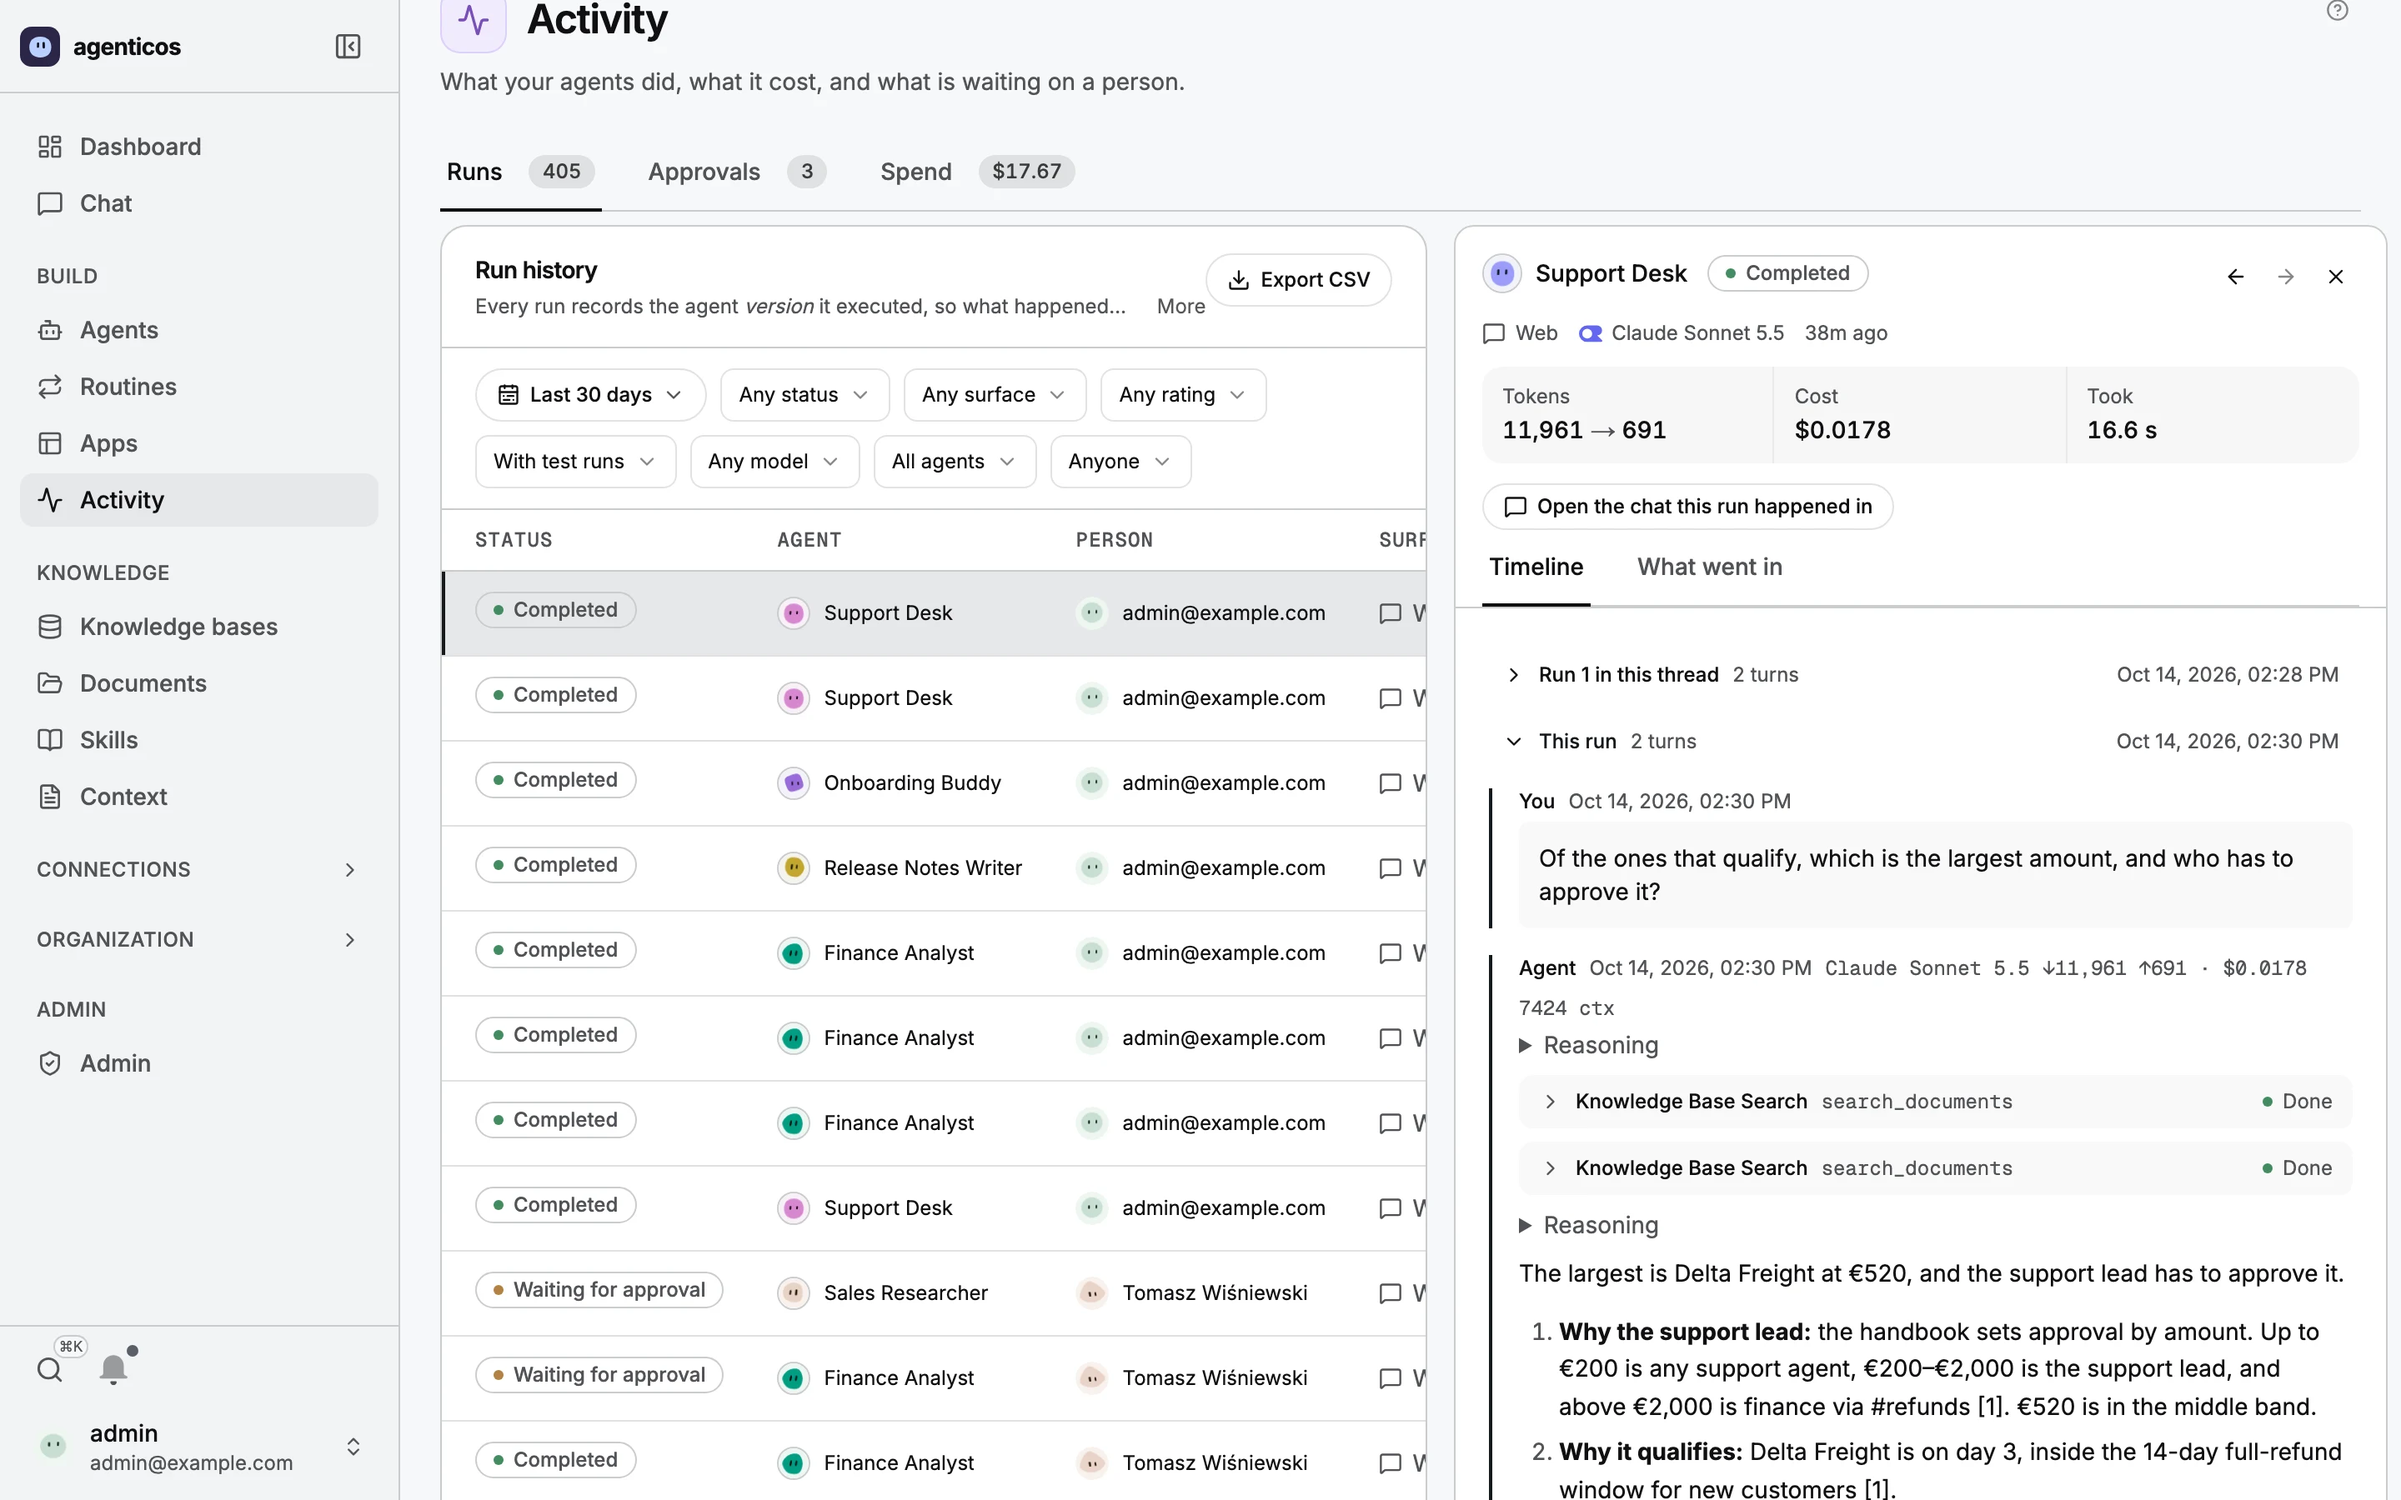
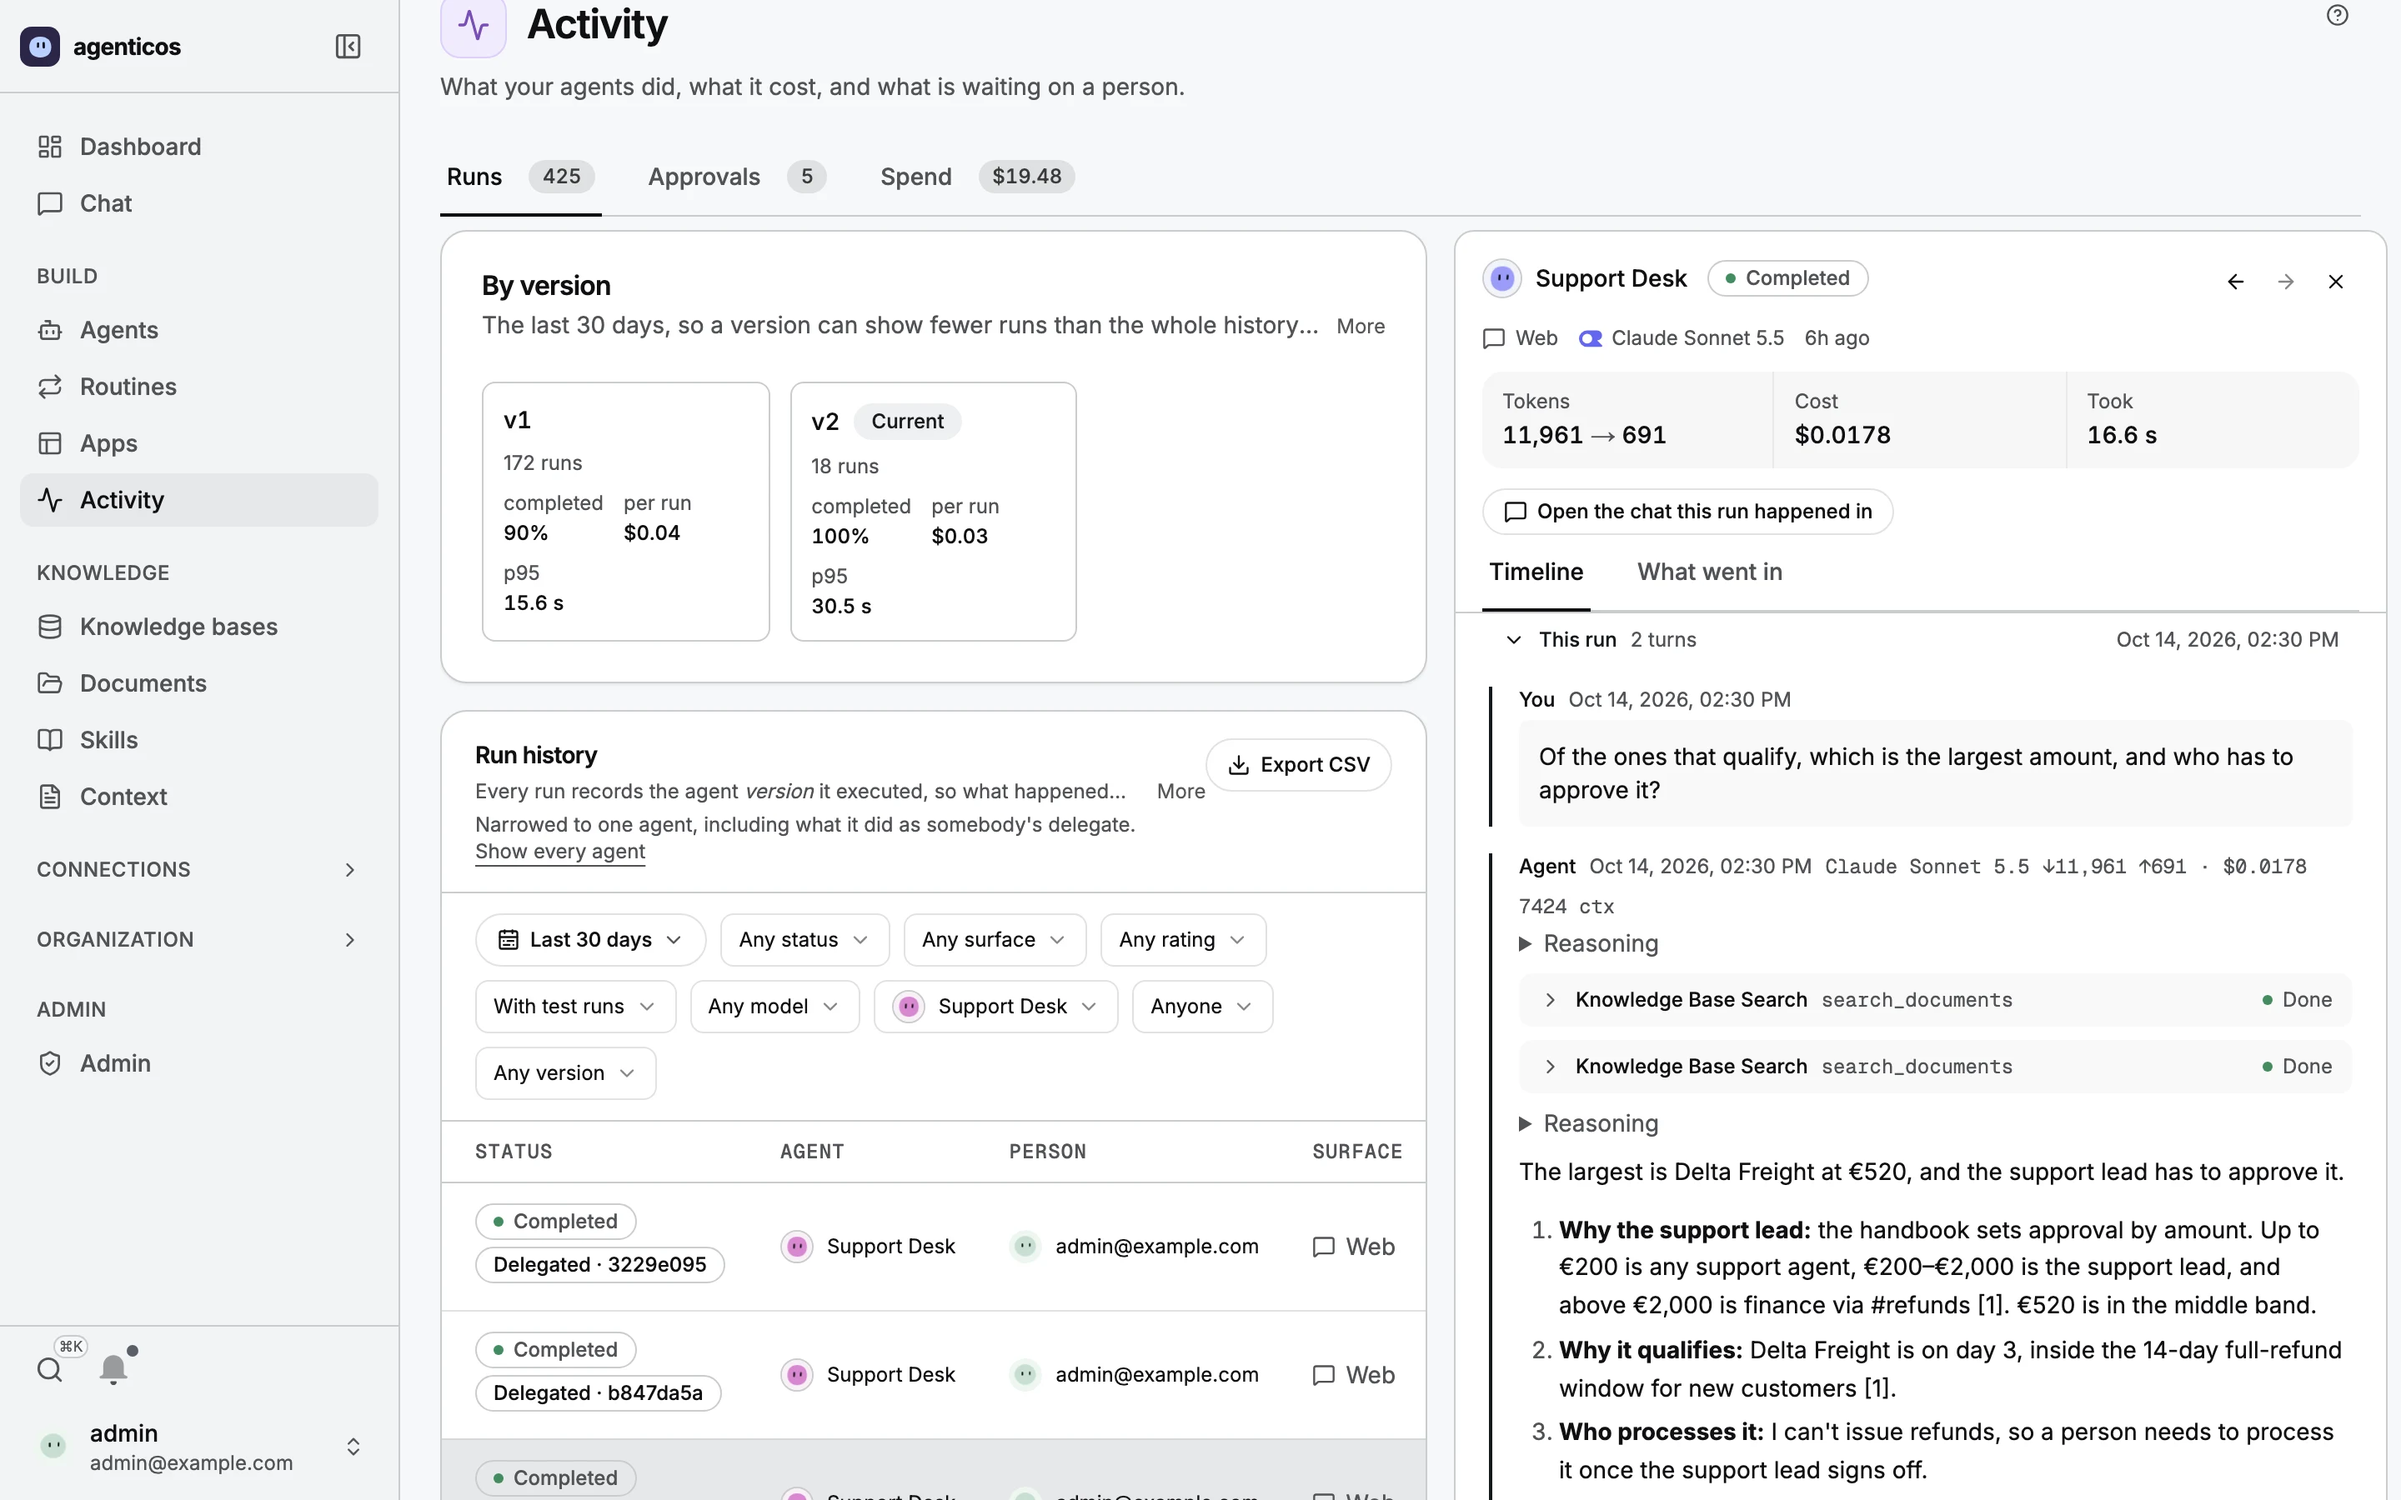
docs(presentation): recapture the deck after the console changes
The chat slide now starts at the folded work above the answer, and the
run slide narrows to Support Desk so its opened run stays in view.
That capture also showed a version tile's figures overlapping on the
Runs page, fixed here.

diff --git a/docs/presentation/media/areas.js b/docs/presentation/media/areas.js
@@ -41,29 +41,29 @@ window.AREAS = {
   ],
   "card": [
    0.458,
-   0.259,
+   0.813,
    0.251,
-   0.263
+   0.187
   ]
  },
  "chat": {
   "steps": [
    0.356,
-   0,
+   0.103,
    0.633,
-   0.347
+   0.031
   ],
   "app": [
-   0.366,
-   0.062,
-   0.623,
+   0.356,
+   0.535,
+   0.4,
    0.144
   ],
   "answer": [
    0.356,
-   0.36,
+   0.143,
    0.633,
-   0.442
+   0.573
   ],
   "composer": [
    0.356,
@@ -284,7 +284,7 @@ window.AREAS = {
    0.183,
    0.194,
    0.8,
-   0.454
+   0.732
   ]
  },
  "groups": {
@@ -358,31 +358,31 @@ window.AREAS = {
  "run-detail": {
   "filters": [
    0.184,
-   0.232,
+   0.595,
    0.41,
-   0.108
+   0.152
   ],
   "list": [
    0.184,
-   0.34,
+   0.748,
    0.816,
-   0.66
+   0.253
   ],
   "detail": [
    0.606,
-   0.151,
+   0.154,
    0.388,
-   0.849
+   0.846
   ],
   "numbers": [
    0.617,
-   0.244,
+   0.248,
    0.365,
    0.064
   ],
   "answer": [
    0.633,
-   0.725,
+   0.658,
    0.347,
    0.136
   ]

diff --git a/frontend/src/components/runs/version-strip.tsx b/frontend/src/components/runs/version-strip.tsx
@@ -93,7 +93,7 @@ function VersionCard({ row, isCurrent }: { row: VersionUsageRow; isCurrent: bool
         {isCurrent && <Badge variant="secondary">{t("currentVersion")}</Badge>}
       </div>
       <p className="text-muted-foreground text-xs">{t("runCount", { count: row.runs })}</p>
-      <dl className="grid grid-cols-3 gap-2 text-xs">
+      <dl className="flex flex-wrap gap-x-3 gap-y-2 text-xs">
         <Stat value={share} label={t("perVersionCompleted")} />
         <Stat value={costPerRun} label={t("perVersionCostPerRun")} />
         <Stat value={formatMs(row.p95_ms)} label={t("perVersionLatency")} />

diff --git a/CHANGELOG.md b/CHANGELOG.md
@@ -549,6 +549,11 @@ Two things are versioned separately from this file and worth knowing about:
 
 ### Fixed
 
+- **A version's figures on the Runs page no longer overlap.** Each tile under
+  "By version" split its three figures into equal thirds, so beside an open
+  run "completed" ran into "per run". They now take the width they need and
+  wrap when the tile is narrow.
+
 - **The Architect answers in the person's language.** Its instructions said
   nothing about language, so a one-word "hej" was answered in Swedish. It now
   answers in the language the person writes in, and for a message too short to
